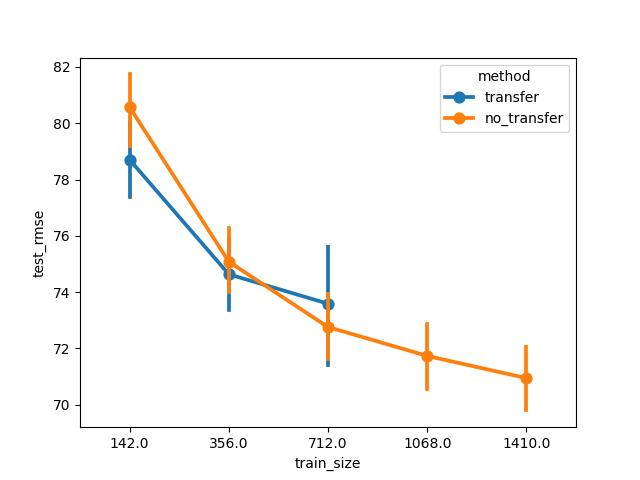
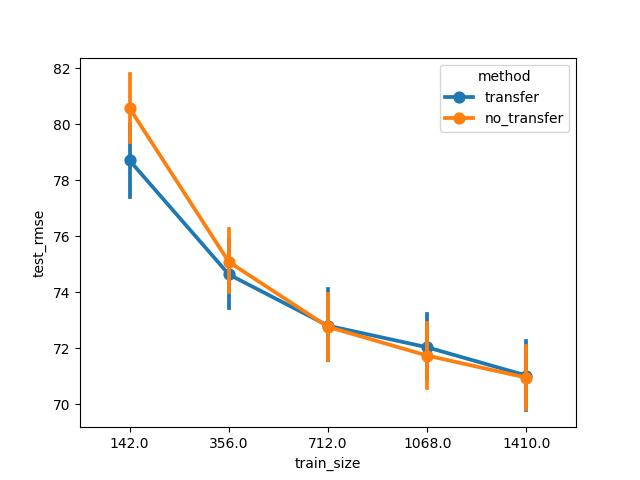
almost dne vizes

diff --git a/boosting/final_viz.py b/boosting/final_viz.py
@@ -10,7 +10,7 @@ import os
 VIZ_FOLDER = 'viz\optimal_viz'
 RES_FOLDER = 'res\optimal_res'
 TARGET_DATA = 'Lettland'
-RESPONSE_VARIABLE = 'Volume'
+RESPONSE_VARIABLE = 'Hgv'
 
 def combine_datasets(TARGET_DATA, RESPONSE_VARIABLE):
     matching_files = glob.glob(os.path.join(RES_FOLDER, f'results_optim_{TARGET_DATA}_{RESPONSE_VARIABLE}*.csv'))
